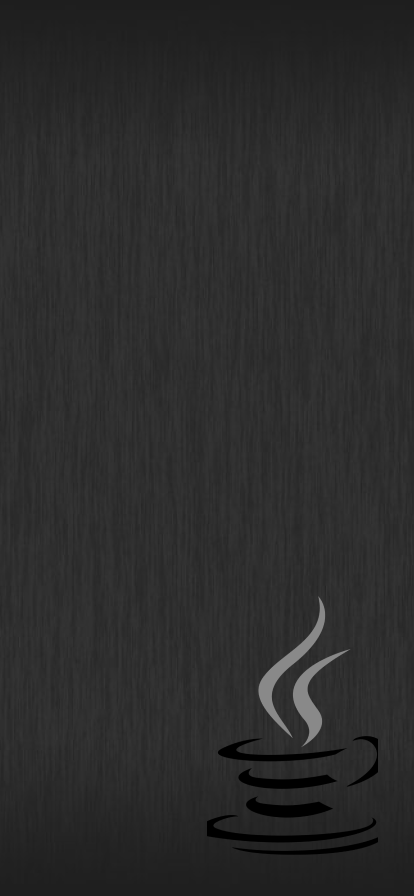
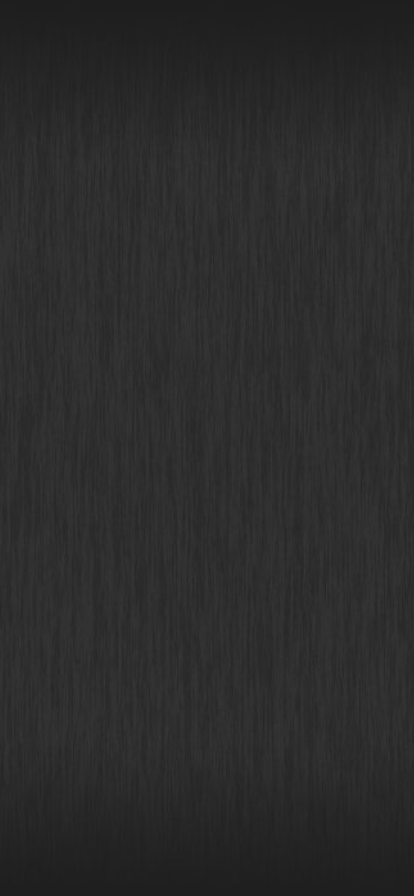
new screen added & updates

Changed region(s): [[0.4928, 0.6562, 0.8986, 0.9688], [0.8696, 0.8125, 0.9275, 0.875]]

diff --git a/lib/screens/exceptionsandthreadsscreen.dart b/lib/screens/exceptionsandthreadsscreen.dart
@@ -1,22 +1,44 @@
 import 'package:flutter/material.dart';
 import '/widgets/drawerwidget.dart';
 
-class ExceptionsandThreadsScreen extends StatelessWidget {
-  const ExceptionsandThreadsScreen({Key? key}) : super(key: key);
+import 'exceptionsandthreads/exceptionsandthreadsscreen2.dart';
+
+class ExceptionsAndThreadsScreen extends StatelessWidget {
+  const ExceptionsAndThreadsScreen({Key? key}) : super(key: key);
 
   @override
   Widget build(BuildContext context) {
     return Scaffold(
       drawer: DrawerWidget(),
       appBar: AppBar(
-        title: Text('EXCEPTIONS AND THREADS'),
+        title: Text('EXCEPTIONS THREADS ETC.'),
         backgroundColor: Color.fromARGB(255, 39, 39, 39),
       ),
       body: Container(
+        //! button
+        alignment: Alignment.bottomCenter,
+        padding: EdgeInsets.all(32),
+        child: ElevatedButton(
+          style: ElevatedButton.styleFrom(
+            minimumSize: Size(300, 50),
+            primary: Color.fromARGB(255, 63, 63, 63),
+          ),
+          child: Text('GET STARTED'),
+          // proceed to next screen
+          onPressed: () {
+            Navigator.push(
+                context,
+                MaterialPageRoute(
+                    builder: (context) => ExceptionsAndThreadsScreen2()));
+          },
+          // proceed to next screen </>
+        ),
+        //! button </>
+
         //! background image
         decoration: BoxDecoration(
           image: DecorationImage(
-            image: AssetImage('assets/default_screen.png'),
+            image: AssetImage('assets/exceptionsandthreads_screen_1.png'),
             fit: BoxFit.cover,
           ),
         ),

diff --git a/lib/screens/exceptionsandthreads/exceptionsandthreadsscreen2.dart b/lib/screens/exceptionsandthreads/exceptionsandthreadsscreen2.dart
@@ -1,17 +1,17 @@
 import 'package:flutter/material.dart';
 import '/widgets/drawerwidget.dart';
 
-//import 'moreonclassesscreen4';
+//import 'exceptionsandthreadsscreen3.dart';
 
-class MoreOnClassesScreen3 extends StatelessWidget {
-  const MoreOnClassesScreen3({Key? key}) : super(key: key);
+class ExceptionsAndThreadsScreen2 extends StatelessWidget {
+  const ExceptionsAndThreadsScreen2({Key? key}) : super(key: key);
 
   @override
   Widget build(BuildContext context) {
     return Scaffold(
       drawer: DrawerWidget(),
       appBar: AppBar(
-        title: Text('MORE ON CLASSES'),
+        title: Text('EXCEPTIONS THREADS ETC.'),
         backgroundColor: Color.fromARGB(255, 39, 39, 39),
       ),
       body: Container(
@@ -29,7 +29,7 @@ class MoreOnClassesScreen3 extends StatelessWidget {
             Navigator.push(
                 context,
                 MaterialPageRoute(
-                    builder: (context) => MoreOnClassesScreen3()));
+                    builder: (context) => ExceptionsAndThreadsScreen2()));
           },
           // proceed to next screen </>
         ),
@@ -38,7 +38,7 @@ class MoreOnClassesScreen3 extends StatelessWidget {
         //! background image
         decoration: BoxDecoration(
           image: DecorationImage(
-            image: AssetImage('assets/moreonclasses_screen_3.png'),
+            image: AssetImage('assets/exceptionsandthreads_screen_2.png'),
             fit: BoxFit.cover,
           ),
         ),

diff --git a/lib/screens/categoryscreen.dart b/lib/screens/categoryscreen.dart
@@ -62,7 +62,7 @@ class CategoryScreen extends StatelessWidget {
               height: 30,
             ),
             drawerItem(
-              text: 'EXCEPTIONS AND THREADS',
+              text: 'EXCEPTIONS, LISTS, THREADS & FILES',
               onClicked: () => selectedItem(context, 5),
             ),
           ],
@@ -124,7 +124,7 @@ class CategoryScreen extends StatelessWidget {
         break;
       case 5:
         Navigator.of(context).push(MaterialPageRoute(
-          builder: (context) => ExceptionsandThreadsScreen(),
+          builder: (context) => ExceptionsAndThreadsScreen(),
         ));
         break;
     }

diff --git a/lib/screens/arraysscreen.dart b/lib/screens/arraysscreen.dart
@@ -23,7 +23,7 @@ class ArraysScreen extends StatelessWidget {
             minimumSize: Size(300, 50),
             primary: Color.fromARGB(255, 63, 63, 63),
           ),
-          child: Text('NEXT'),
+          child: Text('GET STARTED'),
           // proceed to next screen
           onPressed: () {
             Navigator.push(context,
